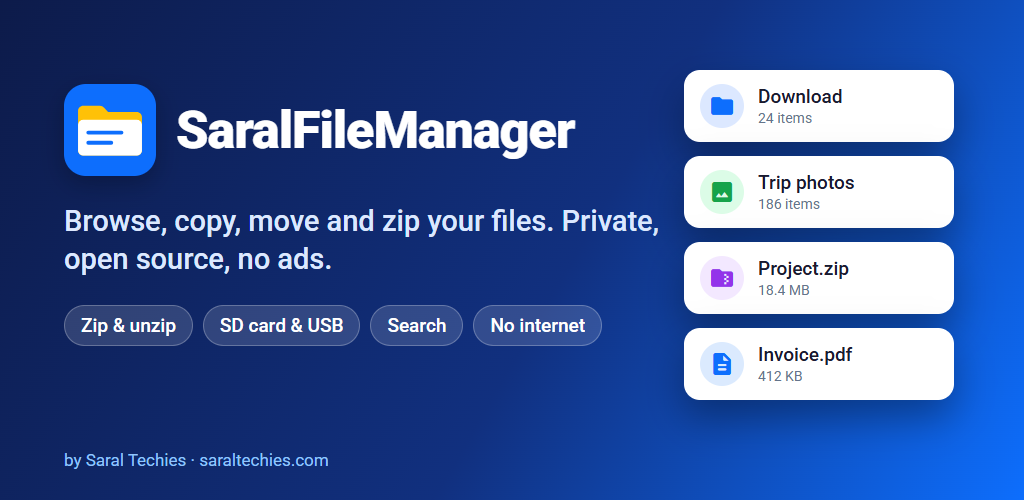
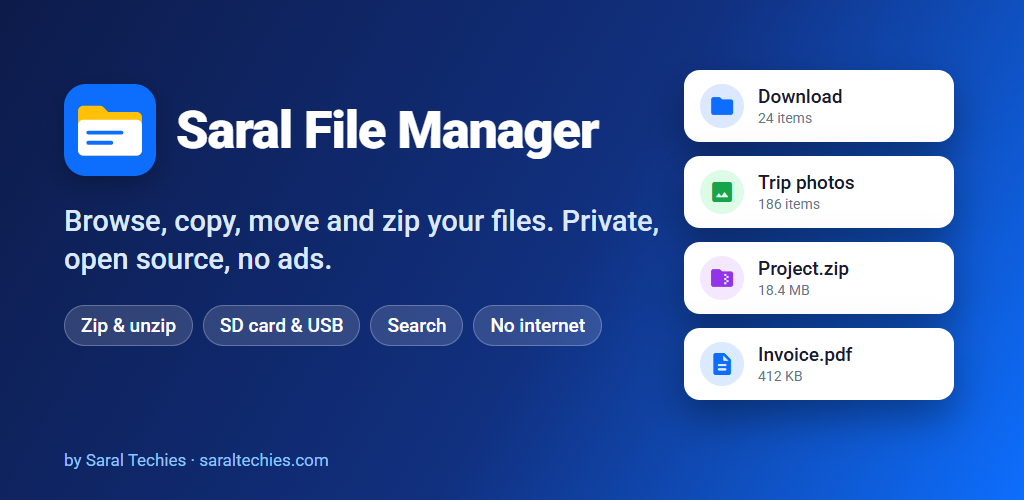
Show the app name as Saral File Manager; 1.0.1
The launcher label and in-app text now match the Play listing. The store
graphics and short description are updated to match.

Changed region(s): [[0.2812, 0.21, 0.5938, 0.33]]

diff --git a/store/graphics-src/store.html b/store/graphics-src/store.html
@@ -117,7 +117,7 @@
 
 <div id="feature" class="view">
   <div class="txt">
-    <div class="brand"><svg viewBox="18 18 72 72"><use href="#mark"/></svg><h1>SaralFileManager</h1></div>
+    <div class="brand"><svg viewBox="18 18 72 72"><use href="#mark"/></svg><h1>Saral File Manager</h1></div>
     <p>Browse, copy, move and zip your files. Private, open source, no ads.</p>
     <div class="chips">
       <span class="chip">Zip &amp; unzip</span><span class="chip">SD card &amp; USB</span>
@@ -138,7 +138,7 @@
   <div class="cap"><h2>All your storage in one place</h2><p>Phone, SD card and USB, with space used</p></div>
   <div class="phone"><div class="scr">
     <div class="status"><span>9:41</span><span class="ms">signal_cellular_alt wifi battery_full</span></div>
-    <div class="bar">SaralFileManager<span class="sp"></span><span class="ms">search</span><span class="ms">more_vert</span></div>
+    <div class="bar">Saral File Manager<span class="sp"></span><span class="ms">search</span><span class="ms">more_vert</span></div>
     <div class="sec">Storage</div>
     <div class="vol"><div class="c ms">phone_android</div><div class="t"><div class="n">Internal shared storage</div><div class="pb"><i style="width:58%"></i></div><small>74.3 GB used of 128 GB</small></div></div>
     <div class="vol"><div class="c ms">sd_card</div><div class="t"><div class="n">SD card</div><div class="pb"><i style="width:31%"></i></div><small>19.8 GB used of 64 GB</small></div></div>

diff --git a/store/listing.md b/store/listing.md
@@ -1,4 +1,4 @@
-# SaralFileManager – Google Play store listing (en-IN / en-US)
+# Saral File Manager – Google Play store listing (en-IN / en-US)
 
 Every claim below matches the code as of 1.0.0. Re-check before each release.
 
@@ -6,10 +6,10 @@ Every claim below matches the code as of 1.0.0. Re-check before each release.
 Saral File Manager
 
 ## Short description (max 80)
-Simple, private file manager: copy, move, zip, search. No ads, no internet.
+Simple, private file manager: copy, move, zip and search your files offline.
 
 ## Full description (max 4000)
-SaralFileManager is a simple, private file manager from Saral Techies. Browse your phone's storage, SD card and USB drives, copy and move files, make and open zip files, find anything with search, and clean up what you don't need. There are no ads, you don't need an account, and the app doesn't even have internet access, so your files never leave your phone. It's free and open source.
+Saral File Manager is a simple, private file manager from Saral Techies. Browse your phone's storage, SD card and USB drives, copy and move files, make and open zip files, find anything with search, and clean up what you don't need. There are no ads, you don't need an account, and the app doesn't even have internet access, so your files never leave your phone. It's free and open source.
 
 SEE EVERYTHING AT A GLANCE
 • Internal storage, SD card and USB drives, with how much space is used
